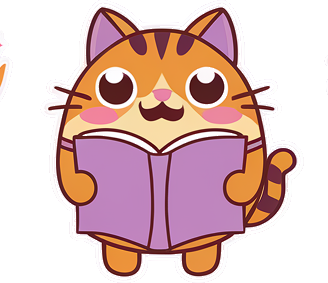
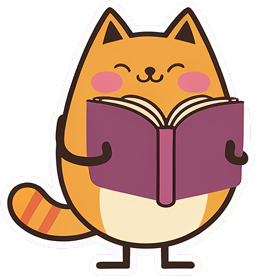
Design preview: simpler RD-style cat mascot sheet (3/4 poses), per-pose animations, cat above the result card

diff --git a/src/components/design/copilot-panel.tsx b/src/components/design/copilot-panel.tsx
@@ -27,7 +27,7 @@ export function CopilotPanel({ messages = [], defaultWidth = 380, defaultOpen = 
     return (
       <aside className="flex w-14 shrink-0 flex-col items-center gap-3.5 border-l border-border pt-5">
         <button onClick={() => setOpen(true)} className="grid size-8 place-items-center rounded-lg border border-border text-muted-foreground hover:bg-muted" aria-label="Open Copilot"><ChevronLeft className="size-4" /></button>
-        <span className="grid size-9 place-items-center overflow-hidden rounded-full bg-accent-soft"><Image src="/design/cat-pencil.png" alt="" width={28} height={28} /></span>
+        <span className="grid size-9 place-items-center overflow-hidden rounded-full bg-accent-soft"><Image src="/design/cat-wave.png" alt="" width={28} height={28} className="cat-wiggle h-7 w-auto" /></span>
         <span className="text-[12px] font-semibold text-muted-foreground [writing-mode:vertical-rl]">Copilot</span>
         <span className="size-2 rounded-full bg-accent" />
       </aside>
@@ -46,12 +46,12 @@ export function CopilotPanel({ messages = [], defaultWidth = 380, defaultOpen = 
           {messages.map((m, i) => m.who === "u" ? (
             <div key={i} className="max-w-[88%] self-end rounded-[14px] rounded-br-[4px] bg-accent px-3.5 py-2.5 text-[13.5px] leading-relaxed text-white">{m.text}</div>
           ) : (
-            <div key={i} className="flex max-w-[94%] gap-2"><Image src="/design/cat-pencil.png" alt="" width={26} height={26} className="mt-0.5 h-[26px] w-auto shrink-0" /><div className="rounded-[14px] rounded-bl-[4px] bg-muted px-3.5 py-2.5 text-[13.5px] leading-relaxed">{m.text}</div></div>
+            <div key={i} className="flex max-w-[94%] gap-2"><Image src="/design/cat-think.png" alt="" width={26} height={26} className="mt-0.5 h-[26px] w-auto shrink-0" /><div className="rounded-[14px] rounded-bl-[4px] bg-muted px-3.5 py-2.5 text-[13.5px] leading-relaxed">{m.text}</div></div>
           ))}
         </div>
       ) : (
         <div className="flex flex-1 flex-col items-center justify-center gap-2 px-[22px] text-center">
-          <Image src="/design/cat-pencil.png" alt="" width={72} height={72} className="h-[72px] w-auto" />
+          <Image src="/design/cat-pencil.png" alt="" width={84} height={84} className="cat-float h-[84px] w-auto" />
           <div className="text-[14px] font-semibold">Stuck? Ask me anything.</div>
           <p className="text-[12.5px] leading-relaxed text-faint">I can see what you&apos;re working on and your notes. One chat for the whole session.</p>
         </div>

diff --git a/src/app/design/learn/page.tsx b/src/app/design/learn/page.tsx
@@ -30,7 +30,7 @@ export default function LearnPreview() {
           </div>
           <div className="rounded-[18px] border border-border p-3.5">
             <div className="flex items-center gap-3">
-              <Image src="/design/cat-pencil.png" alt="" width={40} height={40} className="h-10 w-auto" />
+              <Image src="/design/cat-wave.png" alt="" width={40} height={40} className="cat-wiggle h-10 w-auto" />
               <span className="flex-1 text-[15px] text-faint">What do you want to practise?</span>
               <span className="grid size-9 place-items-center rounded-[10px] bg-accent text-white"><ArrowUp className="size-4" /></span>
             </div>
@@ -45,7 +45,7 @@ export default function LearnPreview() {
               </div>
             ))}
             <div className="flex items-center gap-3.5 rounded-2xl border-2 border-dashed border-border p-4">
-              <Image src="/design/cat-cards.png" alt="" width={48} height={48} className="h-12 w-auto" />
+              <Image src="/design/cat-sleep.png" alt="" width={48} height={48} className="cat-bob h-12 w-auto" />
               <div><div className="text-[14.5px] font-semibold">Add material</div><div className="text-[12px] text-faint">Upload · Photos · Record · Paste a link</div></div>
               <Plus className="ml-auto size-4 text-faint" />
             </div>
@@ -54,7 +54,7 @@ export default function LearnPreview() {
         </div>
         <div className="flex w-[300px] shrink-0 flex-col gap-3.5">
           <div className="relative overflow-hidden rounded-2xl p-[18px]" style={{ background: T.lavender }}>
-            <Image src="/design/cat-book.png" alt="" width={64} height={64} className="absolute right-2.5 top-2.5 h-16 w-auto" />
+            <Image src="/design/cat-book.png" alt="" width={72} height={72} className="cat-peek absolute right-2.5 top-2 h-[72px] w-auto" />
             <div className="flex items-center gap-2"><Ring pct={0.6} size={28} stroke={12} /><span className="text-[11px] font-semibold text-accent-dim">Suggested next · 3 of 5 today</span></div>
             <div className="mt-2 pr-16 text-[16px] font-bold leading-tight">Worksheet · Osmosis calculations</div>
             <div className="mt-1 text-[12.5px] text-accent-dim">6 min · fits your 17:30 slot · from Bio notes pp. 13–16</div>

diff --git a/src/components/design/feedback.tsx b/src/components/design/feedback.tsx
@@ -17,6 +17,7 @@ export function FeedbackCard({ ok, title, message, secondary, primary, confetti 
   const isClient = useSyncExternalStore(() => () => {}, () => true, () => false);
   return (
     <div className="relative pb-6 pt-3">
+      {ok && <Image src="/design/cat-cheer.png" alt="" width={110} height={110} priority className="cat-cheer pointer-events-none absolute -top-[86px] right-6 h-[110px] w-auto drop-shadow-[0_10px_18px_rgba(22,163,74,.22)]" />}
       {ok && confetti && isClient && <><ConfettiBurst burst={1} /><ConfettiBurst burst={2} /></>}
       <div className={cn("flex items-center gap-4 rounded-2xl border px-5 py-4 shadow-[0_12px_40px_-12px_rgba(17,17,20,.18)]", ok ? "design-bounce border-emerald-300 bg-gradient-to-r from-emerald-50 to-lime-50" : "border-rose-200 bg-rose-50")}>
         <span className={cn("grid size-12 shrink-0 place-items-center rounded-full text-white", ok ? "design-pop bg-emerald-500 shadow-[0_0_0_6px_rgba(16,185,129,.2)]" : "bg-red-600")}>{ok ? <Check className="size-6" strokeWidth={3} /> : <X className="size-6" strokeWidth={2.5} />}</span>
@@ -24,7 +25,6 @@ export function FeedbackCard({ ok, title, message, secondary, primary, confetti 
           <div className="flex items-center gap-2.5"><span className={cn("text-[19px] font-extrabold", ok ? "text-emerald-800" : "text-rose-800")}>{title}</span>{ok && <span className="design-pop inline-flex items-center gap-1 rounded-full bg-accent px-2.5 py-1 text-[12px] font-bold text-white [animation-delay:.15s]"><Sparkles className="size-3.5" fill="currentColor" />+{xp} XP</span>}</div>
           <div className="mt-0.5 text-[14px] text-muted-foreground">{message}</div>
         </div>
-        {ok && <Image src="/design/cat-trophy.png" alt="" width={72} height={72} priority className="design-pop h-[72px] w-auto shrink-0 -my-4 drop-shadow-[0_8px_16px_rgba(22,163,74,.25)]" />}
         <div className="flex shrink-0 gap-2.5"><button className={cn(btnOutline, "bg-white/80")}>{secondary}</button><button className={cn(btnPrimary, ok && "bg-emerald-600 hover:bg-emerald-700")}>{primary}</button></div>
       </div>
     </div>

diff --git a/src/app/design/design.css b/src/app/design/design.css
@@ -23,3 +23,15 @@
 .design-pop { animation: design-pop .55s cubic-bezier(.34,1.56,.64,1) both; }
 .design-pop.-translate-x-1\/2 { --tx: -50%; }
 .design-bounce { animation: design-bounce .5s cubic-bezier(.22,1,.36,1) both; }
+
+/* Mascot motion: one animation per pose. */
+@keyframes design-wiggle { 0%,100% { transform: rotate(-4deg) } 50% { transform: rotate(4deg) } }
+@keyframes design-bob { 0%,100% { transform: translateY(0) } 50% { transform: translateY(-4px) } }
+@keyframes design-float { 0%,100% { transform: translateY(0) rotate(-2deg) } 50% { transform: translateY(-6px) rotate(2deg) } }
+@keyframes design-peek { 0% { transform: translateY(18px) rotate(6deg); opacity: 0 } 100% { transform: translateY(0) rotate(0); opacity: 1 } }
+@keyframes design-cheer { 0% { transform: translateY(0) scale(.6); opacity: 0 } 50% { transform: translateY(-14px) scale(1.08); opacity: 1 } 70% { transform: translateY(0) scale(.98) } 85% { transform: translateY(-6px) scale(1.02) } 100% { transform: translateY(0) scale(1) } }
+.cat-wiggle { animation: design-wiggle 1.6s ease-in-out infinite; transform-origin: 50% 90%; }
+.cat-bob { animation: design-bob 3s ease-in-out infinite; }
+.cat-float { animation: design-float 4s ease-in-out infinite; }
+.cat-peek { animation: design-peek .6s cubic-bezier(.22,1,.36,1) both; }
+.cat-cheer { animation: design-cheer .9s cubic-bezier(.34,1.56,.64,1) both; transform-origin: 50% 100%; }

diff --git a/src/app/design/complete/page.tsx b/src/app/design/complete/page.tsx
@@ -7,7 +7,7 @@ export default function CompletePreview() {
   return (
     <div className="mx-auto flex h-dvh w-full max-w-[390px] flex-col bg-white px-5 pt-14">
       <div className="pt-1.5 text-center">
-        <Image src="/design/cat-trophy.png" alt="" width={96} height={96} className="mx-auto h-24 w-auto" />
+        <Image src="/design/cat-trophy.png" alt="" width={104} height={104} className="design-pop mx-auto h-[104px] w-auto" />
         <h1 className="mt-2 text-[24px] font-bold">Lesson step complete</h1>
         <p className="mt-1 text-[14px] text-muted-foreground">Worksheet · Osmosis calculations</p>
       </div>
